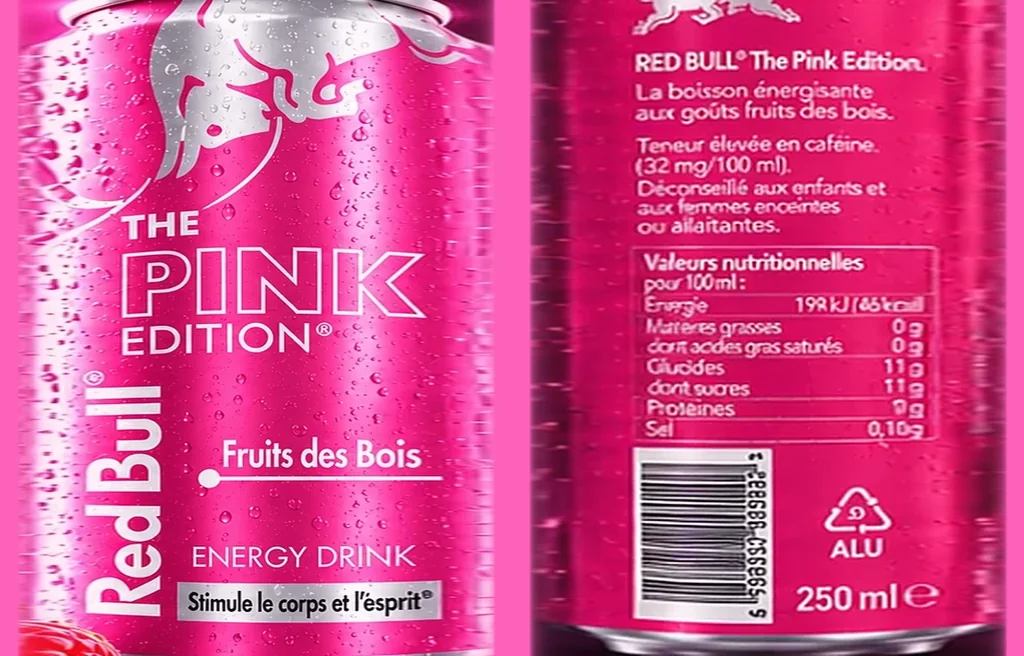
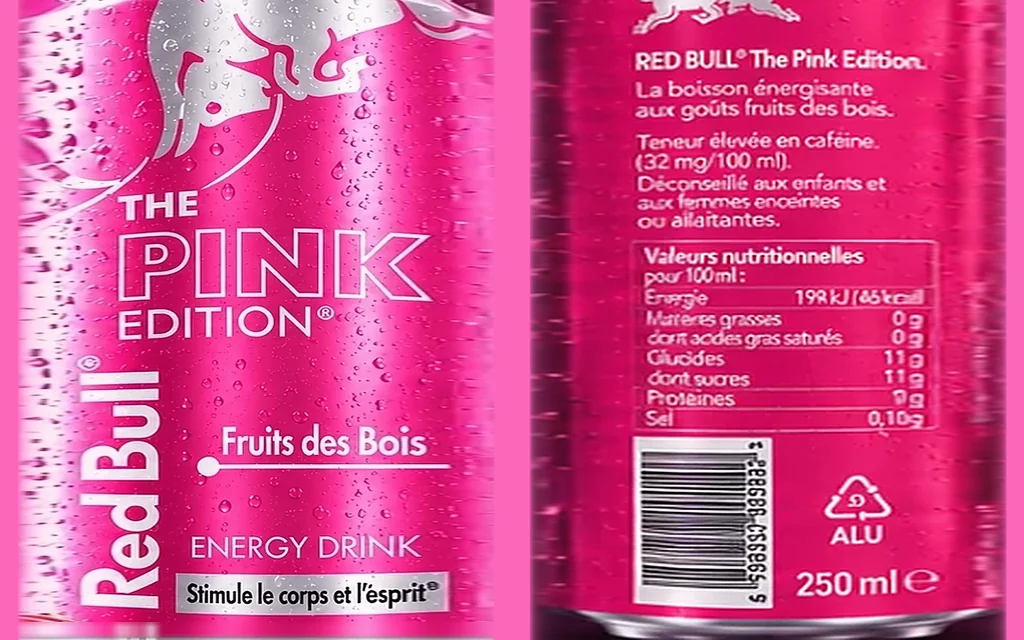
Index des canettes : étiquettes plus nettes (2048 px), vernis brillant, éclairage studio plus riche
Claude-Session: https://claude.ai/code/session_016EaW4wJKL7vviJkX7cdaTQ

Changed region(s): [[0.0, 0.0, 0.5, 1.0], [0.625, 0.7188, 0.75, 0.9375]]

diff --git a/docs/redbull/can3d.js b/docs/redbull/can3d.js
@@ -37,7 +37,7 @@ export async function create({ canvas, lite = false, mid = false, onChange = nul
   const renderer = new THREE.WebGLRenderer({ canvas, antialias: hi, alpha: true, powerPreference: "high-performance" });
   renderer.setClearColor(0, 0);
   renderer.outputColorSpace = THREE.SRGBColorSpace;
-  renderer.toneMapping = THREE.ACESFilmicToneMapping; renderer.toneMappingExposure = 1.08;
+  renderer.toneMapping = THREE.ACESFilmicToneMapping; renderer.toneMappingExposure = 1.12;
   const maxAniso = Math.min(8, renderer.capabilities.getMaxAnisotropy());
 
   const scene = new THREE.Scene();
@@ -50,6 +50,7 @@ export async function create({ canvas, lite = false, mid = false, onChange = nul
       m.position.set(x, y, z); m.rotation.set(rx || 0, ry || 0, 0); env.add(m);
     };
     panel(3, 14, -7, 0, 3, Math.PI/2.6, 0, 5);        // grande bande à gauche
+    panel(.7, 14, -2.2, 0, 8, Math.PI*.95, 0, 6);    // reflet vertical fin sur l'étiquette
     panel(1.4, 14, 7, 0, 1, -Math.PI/2.2, 0, 3.5);    // bande fine à droite
     panel(10, 4, 0, 9, 0, 0, Math.PI/2, 2.2);         // plafond doux
     panel(6, 2, 0, -2, 9, Math.PI, 0, .9);            // rappel de face, faible
@@ -60,6 +61,7 @@ export async function create({ canvas, lite = false, mid = false, onChange = nul
   const amb = new THREE.AmbientLight(0xffffff, .22); scene.add(amb);
   const key = new THREE.DirectionalLight(0xffffff, 1.7); key.position.set(-3, 3.5, 6); scene.add(key);
   const rim = new THREE.DirectionalLight(0xffffff, 1.6); rim.position.set(4, 1.5, -3); scene.add(rim);
+  const rim2 = new THREE.DirectionalLight(0xffffff, 1.3); rim2.position.set(-4.5, .5, -2.5); scene.add(rim2);   // second liseré sur le bord gauche
   const tint = new THREE.PointLight(0xffffff, 0, 8, 1.6); tint.position.set(1.8, -1, 2.5); scene.add(tint);
 
   // formes partagées (rayon de base .21 ; chaque canette est mise à l'échelle selon ses proportions)
@@ -77,12 +79,12 @@ export async function create({ canvas, lite = false, mid = false, onChange = nul
   // v = 0 au bord du corps, 1 au centre (haut) ; profil du bas : v = 0 au centre, 1 au bord
   const TOPR = ringTex([[0,"#b9bdc3"],[.15,"#8a8f96"],[.35,"#cfd2d6"],[.5,"#7a7f86"],[.6,"#d8dbdf"],[.7,"#6f747b"],[.85,"#a3a8ae"],[1,"#8e939a"]]);
   const BOTR = ringTex([[0,"#9ea3aa"],[.35,"#c9ccd1"],[.55,"#7f848b"],[.62,"#eceef1"],[.7,"#8b9097"],[.82,"#d8dbdf"],[.92,"#7a7f86"],[1,"#c4c8cd"]]);
-  const mkLabel = () => (false)
-    ? null
+  const mkLabel = () => hi
+    ? new THREE.MeshPhysicalMaterial({ color: 0xffffff, metalness: .3, roughness: .34, clearcoat: .7, clearcoatRoughness: .14, envMapIntensity: 1.05, transparent: false })
     : new THREE.MeshStandardMaterial({ color: 0xffffff, metalness: .3, roughness: .36, envMapIntensity: .85, transparent: false });
   const mkSilver = () => false
     ? new THREE.MeshPhysicalMaterial({ color: 0x9a9fa6, metalness: 1, roughness: .22, anisotropy: .5, anisotropyRotation: Math.PI/2, envMapIntensity: 1, side: THREE.DoubleSide, transparent: true })
-    : new THREE.MeshStandardMaterial({ color: 0xe4e7eb, metalness: .9, roughness: .3, envMapIntensity: 1.25, side: THREE.DoubleSide, transparent: false });
+    : new THREE.MeshStandardMaterial({ color: 0xe4e7eb, metalness: .9, roughness: .3, envMapIntensity: 1.45, side: THREE.DoubleSide, transparent: false });
 
   const marker = new THREE.Object3D();
   const cans = [];

diff --git a/docs/redbull/index.html b/docs/redbull/index.html
@@ -8,7 +8,7 @@
 <meta name="theme-color" content="#08060f">
 <script type="importmap">{"imports":{"three":"./vendor/three.module.min.js"}}</script>
 <link rel="modulepreload" href="./vendor/three.module.min.js">
-<link rel="modulepreload" href="./can3d.js?v=21">
+<link rel="modulepreload" href="./can3d.js?v=22">
 <link rel="preconnect" href="https://fonts.googleapis.com">
 <link rel="preconnect" href="https://fonts.gstatic.com" crossorigin>
 <link rel="stylesheet" href="https://fonts.googleapis.com/css2?family=Archivo:ital,wght@0,400;0,500;0,900;1,900&family=JetBrains+Mono:wght@400&display=swap">
@@ -276,7 +276,7 @@ function frame(now){
 show(); measure(); addEventListener("load", measure);
 (async () => {
   try {
-    const mod = await import("./can3d.js?v=21");
+    const mod = await import("./can3d.js?v=22");
     gl = await mod.create({ canvas: $("#gl"), lite, mid, onChange: kick, pool: 7 });
     // d'abord la canette affichée et ses voisines, puis toutes les autres
     const order = [...F.keys()].sort((a, b) => Math.min((a-cur+N)%N, (cur-a+N)%N) - Math.min((b-cur+N)%N, (cur-b+N)%N));
